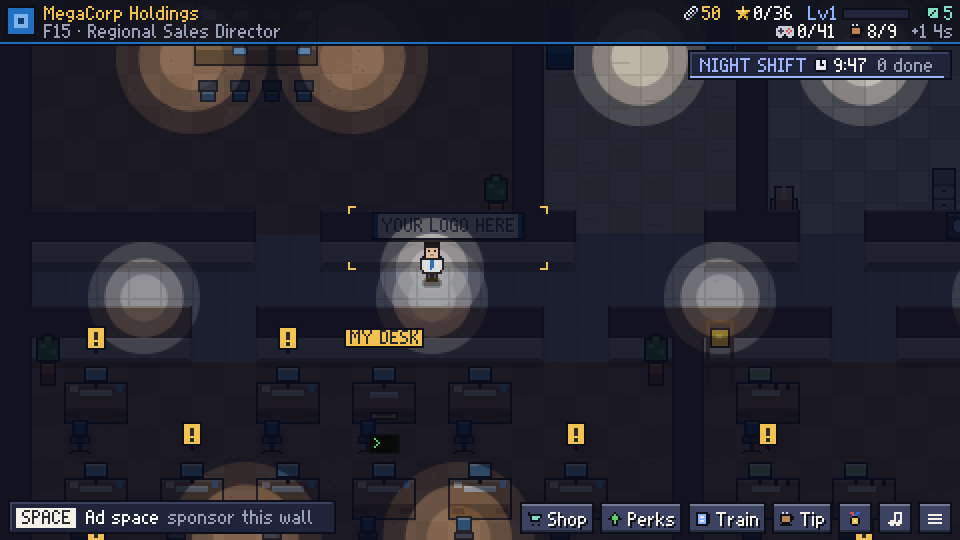
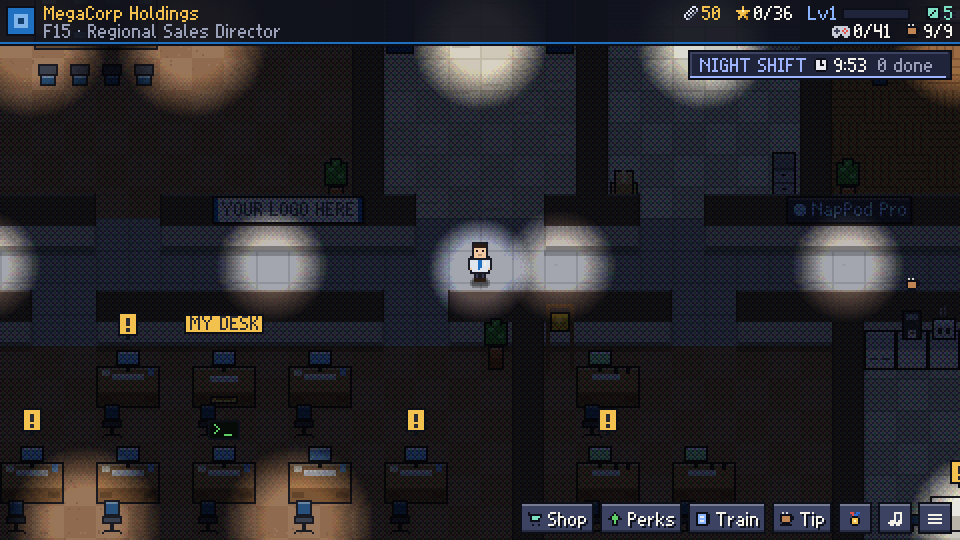
Guide: the lost folder gets screenshots and a pointer from Getting promoted; the night shift screenshot shows the new lighting
Claude-Session: https://claude.ai/code/session_01M4xUiXTiGzBdKzKAVtQwx8

diff --git a/public/how-to-play/index.html b/public/how-to-play/index.html
@@ -600,6 +600,10 @@
           elevator up: you pay the keycard fee and get a new floor, a new title, a full coffee pot and a Stock Option. Going
           down to floors you have already reached is always free.
         </p>
+        <p>
+          On floors 3, 13, 23 and 33 there may be a shortcut: if you visit HR before you are promotion-ready, they might ask
+          a favour that makes you ready on the spot. See <a href="#archive">the lost folder</a>.
+        </p>
 
         <h2 id="currencies">Paperclips, XP and Stock Options</h2>
         <ul>
@@ -800,6 +804,16 @@
           time, or give up at the elevator, and you are back upstairs with nothing else lost, but the chance is gone: HR
           asks only once per floor, so saying no is final too.
         </p>
+        <div class="pair">
+          <figure>
+            <img class="shot" src="img/archive-offer.png" width="960" height="540" alt="HR asking for a favour: a lost folder in the archive" />
+            <figcaption>HR's favour, after the usual note on what you still need.</figcaption>
+          </figure>
+          <figure>
+            <img class="shot" src="img/archive.png" width="960" height="540" alt="The dark basement archive with rows of filing cabinets" />
+            <figcaption><b>The archive.</b> Rows of cabinets in the dark; the clock in the corner counts down from 5:00.</figcaption>
+          </figure>
+        </div>
 
         <h2 id="conduct">Office conduct</h2>
         <p>
